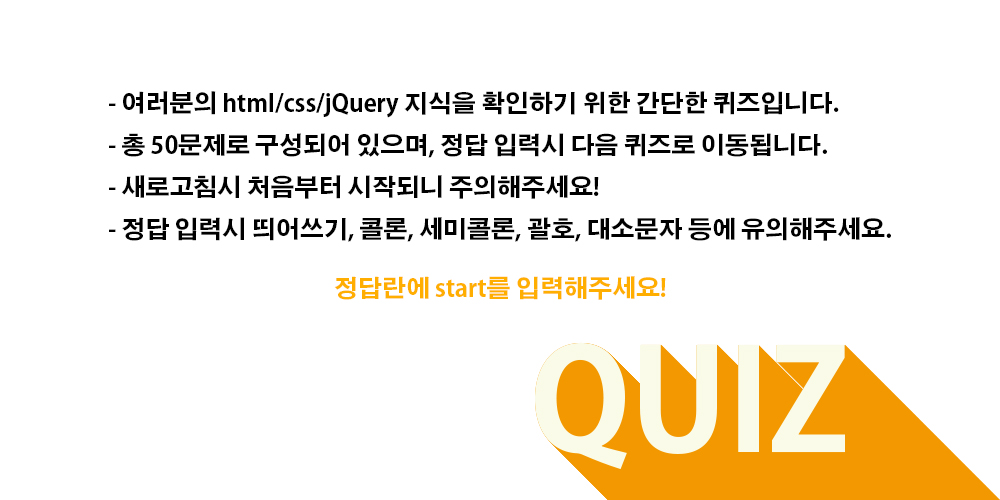
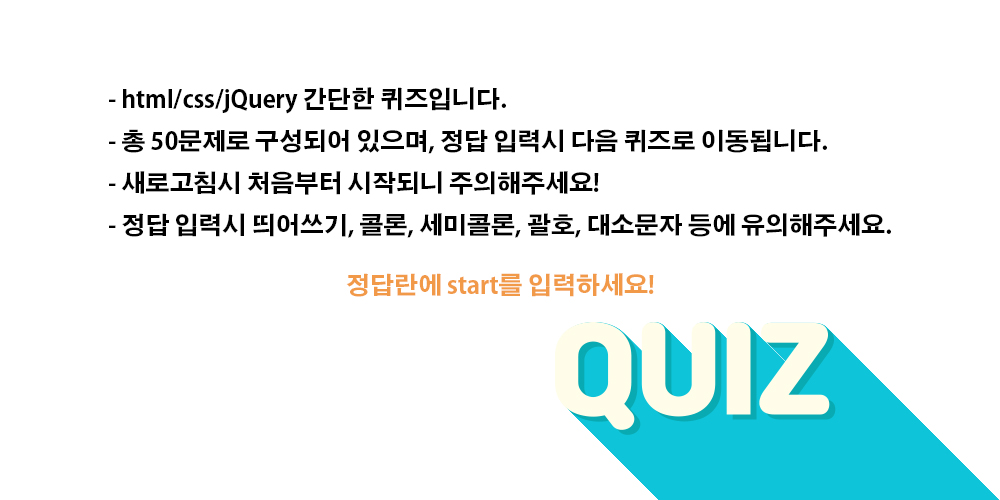
0829

Changed region(s): [[0.093, 0.18, 0.899, 0.48], [0.527, 0.66, 1.0, 1.0], [0.341, 0.54, 0.682, 0.6]]

diff --git a/js/jquery.js b/js/jquery.js
@@ -1,6 +1,150 @@
 $(function(){
     
     
+    function randomcolor(){
+                var boxcolor = ['#f2508b', '#0ec4d9', '#f29949'];
+               return boxcolor[Math.floor(Math.random()*3)];
+            };
+    
+    
+    function randompos(){
+        return Math.floor(Math.random()*-500)+"px";
+    }
+    function randompos2(){
+        return Math.floor(Math.random()*500)+"px";
+    }
+    
+    
+    function addbox(){
+        $('.box').css('display', 'block');
+        $('.box1').css('background-color', randomcolor());
+        $('.box2').css('background-color', randomcolor());
+        $('.box3').css('background-color', randomcolor());
+        $('.box4').css('background-color', randomcolor());
+        $('.box5').css('background-color', randomcolor());
+        $('.box6').css('background-color', randomcolor());
+        $('.box7').css('background-color', randomcolor());
+        $('.box8').css('background-color', randomcolor());
+        $('.box9').css('background-color', randomcolor());
+        $('.box10').css('background-color', randomcolor());
+        $('.box11').css('background-color', randomcolor());
+        $('.box12').css('background-color', randomcolor());
+        $('.box13').css('background-color', randomcolor());
+        $('.box14').css('background-color', randomcolor());
+        $('.box15').css('background-color', randomcolor());
+        $('.box16').css('background-color', randomcolor());
+        $('.box17').css('background-color', randomcolor());
+        $('.box18').css('background-color', randomcolor());
+        $('.box19').css('background-color', randomcolor());
+        $('.box20').css('background-color', randomcolor());
+        $('.box21').css('background-color', randomcolor());
+        $('.box22').css('background-color', randomcolor());
+        $('.box23').css('background-color', randomcolor());
+        $('.box24').css('background-color', randomcolor());
+        $('.box25').css('background-color', randomcolor());
+        $('.box26').css('background-color', randomcolor());
+        $('.box27').css('background-color', randomcolor());
+        $('.box28').css('background-color', randomcolor());
+        $('.box29').css('background-color', randomcolor());
+        $('.box30').css('background-color', randomcolor());
+        
+        $('.box1').animate({left: randompos(), top: randompos()}, 500, function(){
+            $('.box1').fadeOut(300);
+        });
+        $('.box2').animate({left: randompos2(), top: randompos()}, 500, function(){
+            $('.box2').fadeOut(300);
+        });
+        $('.box3').animate({left: randompos(), top: randompos2()}, 500, function(){
+            $('.box3').fadeOut(300);
+        });
+        $('.box4').animate({left: randompos(), top: randompos2()}, 500, function(){
+            $('.box4').fadeOut(300);
+        });
+        $('.box5').animate({left: randompos(), top: randompos()}, 500, function(){
+            $('.box5').fadeOut(300);
+        });
+        $('.box6').animate({left: randompos(), top: randompos()}, 500, function(){
+            $('.box6').fadeOut(300);
+        });
+        $('.box7').animate({left: randompos(), top: randompos2()}, 500, function(){
+            $('.box7').fadeOut(300);
+        });
+        $('.box8').animate({left: randompos2(), top: randompos2()}, 500, function(){
+            $('.box8').fadeOut(300);
+        });
+        $('.box9').animate({left: randompos(), top: randompos()}, 500, function(){
+            $('.box9').fadeOut(300);
+        });
+        $('.box10').animate({left: randompos(), top: randompos()}, 500, function(){
+            $('.box10').fadeOut(300);
+        });
+        $('.box11').animate({left: randompos(), top: randompos2()}, 500, function(){
+            $('.box11').fadeOut(300);
+        });
+        $('.box12').animate({left: randompos(), top: randompos2()}, 500, function(){
+            $('.box12').fadeOut(300);
+        });
+        $('.box13').animate({left: randompos2(), top: randompos2()}, 500, function(){
+            $('.box13').fadeOut(300);
+        });
+        $('.box14').animate({left: randompos2(), top: randompos()}, 500, function(){
+            $('.box14').fadeOut(300);
+        });
+        $('.box15').animate({left: randompos(), top: randompos()}, 500, function(){
+            $('.box15').fadeOut(300);
+        });
+        $('.box16').animate({left: randompos(), top: randompos()}, 500, function(){
+            $('.box16').fadeOut(300);
+        });
+        $('.box17').animate({left: randompos(), top: randompos()}, 500, function(){
+            $('.box17').fadeOut(300);
+        });
+        $('.box18').animate({left: randompos2(), top: randompos2()}, 500, function(){
+            $('.box18').fadeOut(300);
+        });
+        $('.box19').animate({left: randompos(), top: randompos()}, 500, function(){
+            $('.box19').fadeOut(300);
+        });
+        $('.box20').animate({left: randompos(), top: randompos()}, 500, function(){
+            $('.box20').fadeOut(300);
+        });
+        $('.box21').animate({left: randompos2(), top: randompos2()}, 500, function(){
+            $('.box21').fadeOut(300);
+        });
+        $('.box22').animate({left: randompos(), top: randompos2()}, 500, function(){
+            $('.box22').fadeOut(300);
+        });
+        $('.box23').animate({left: randompos(), top: randompos2()}, 500, function(){
+            $('.box23').fadeOut(300);
+        });
+        $('.box24').animate({left: randompos2(), top: randompos()}, 500, function(){
+            $('.box24').fadeOut(300);
+        });
+        $('.box25').animate({left: randompos(), top: randompos()}, 500, function(){
+            $('.box25').fadeOut(300);
+        });
+        $('.box26').animate({left: randompos2(), top: randompos2()}, 500, function(){
+            $('.box26').fadeOut(300);
+        });
+        $('.box27').animate({left: randompos(), top: randompos()}, 500, function(){
+            $('.box27').fadeOut(300);
+        });
+        $('.box28').animate({left: randompos(), top: randompos2()}, 500, function(){
+            $('.box28').fadeOut(300);
+        });
+        $('.box29').animate({left: randompos(), top: randompos2()}, 500, function(){
+            $('.box29').fadeOut(300);
+        });
+        $('.box30').animate({left: randompos(), top: randompos2()}, 500, function(){
+            $('.box30').fadeOut(300);
+        });
+    }
+    
+    
+    
+//    console.log(addbox());
+            
+    
     $('.quiz-btn').click(function(){
         
         var answer = $('#answer').val();
@@ -31,6 +175,7 @@ $(function(){
             
             img.removeClass('q2');
             img.addClass('q3');
+            
             
         }
         
@@ -452,7 +597,7 @@ $(function(){
             
         }
         
-        if (answer == "3" && img.hasClass('q35') ){
+        if (answer == "2" && img.hasClass('q35') ){
             
             alert('정답입니다.');
             
@@ -662,7 +807,7 @@ $(function(){
         
         if (answer == "placeholder" && img.hasClass('q51') ){
             
-            alert('정답입니다.');
+            addbox();
             
             $('.quiz-box').css('background-image', 'url(./images/quiz-51.jpg)');
             
@@ -671,8 +816,13 @@ $(function(){
             img.removeClass('q51');
             img.addClass('q52');
             
+            
         }
         
     });
+    
+    
+    
+    
     
 });

diff --git a/index.html b/index.html
@@ -2,6 +2,7 @@
 <html lang="ko">
 <head>
     <meta charset="UTF-8">
+    <meta name="viewport" content="width=device-width, initial-scale=1.0">
     <title>퀴즈</title>
     <link rel="stylesheet" href="css/reset.css">
     <link rel="stylesheet" href="css/style.css">
@@ -17,6 +18,36 @@
             </div>
             <div class="quiz-btn">
                 확인
+                <div class="box box1"></div>
+                <div class="box box2"></div>
+                <div class="box box3"></div>
+                <div class="box box4"></div>
+                <div class="box box5"></div>
+                <div class="box box6"></div>
+                <div class="box box7"></div>
+                <div class="box box8"></div>
+                <div class="box box9"></div>
+                <div class="box box10"></div>
+                <div class="box box11"></div>
+                <div class="box box12"></div>
+                <div class="box box13"></div>
+                <div class="box box14"></div>
+                <div class="box box15"></div>
+                <div class="box box16"></div>
+                <div class="box box17"></div>
+                <div class="box box18"></div>
+                <div class="box box19"></div>
+                <div class="box box20"></div>
+                <div class="box box21"></div>
+                <div class="box box22"></div>
+                <div class="box box23"></div>
+                <div class="box box24"></div>
+                <div class="box box25"></div>
+                <div class="box box26"></div>
+                <div class="box box27"></div>
+                <div class="box box28"></div>
+                <div class="box box29"></div>
+                <div class="box box30"></div>
             </div>
         </div>
     </div>

diff --git a/css/style.css b/css/style.css
@@ -5,10 +5,11 @@
 #wrap {
     width: 100%;
     height: 100vh;
-    background-image: url(../images/bg.png);
+    background-image: url(../images/bg2.jpg);
     background-size: cover;
     background-repeat: no-repeat;
     background-position: center;
+    overflow: hidden;
 }
 
 .container {
@@ -41,6 +42,8 @@
     height: 50px;
     font-size: 1.5rem;
     text-indent: 10px;
+    border: 0;
+    background-color: rgba(243,212,56,0.7);
 }
 
 .quiz-btn {
@@ -48,12 +51,24 @@
     height: 50px;
     text-align: center;
     line-height: 50px;
-    background-color: orange;
+    background-color: #F19948;
     margin: 0 auto;
     margin-top: 30px;
     cursor: pointer;
     pointer-events: inherit;
     font-size: 20px;
     color: #fff;
+    position: relative;
+    top
 }
 
+
+.box {
+    display: none;
+    width: 10px;
+    height: 10px;
+    background-color: #fff;
+    position: absolute;
+    top: 50%;
+    left: 50%;
+}
